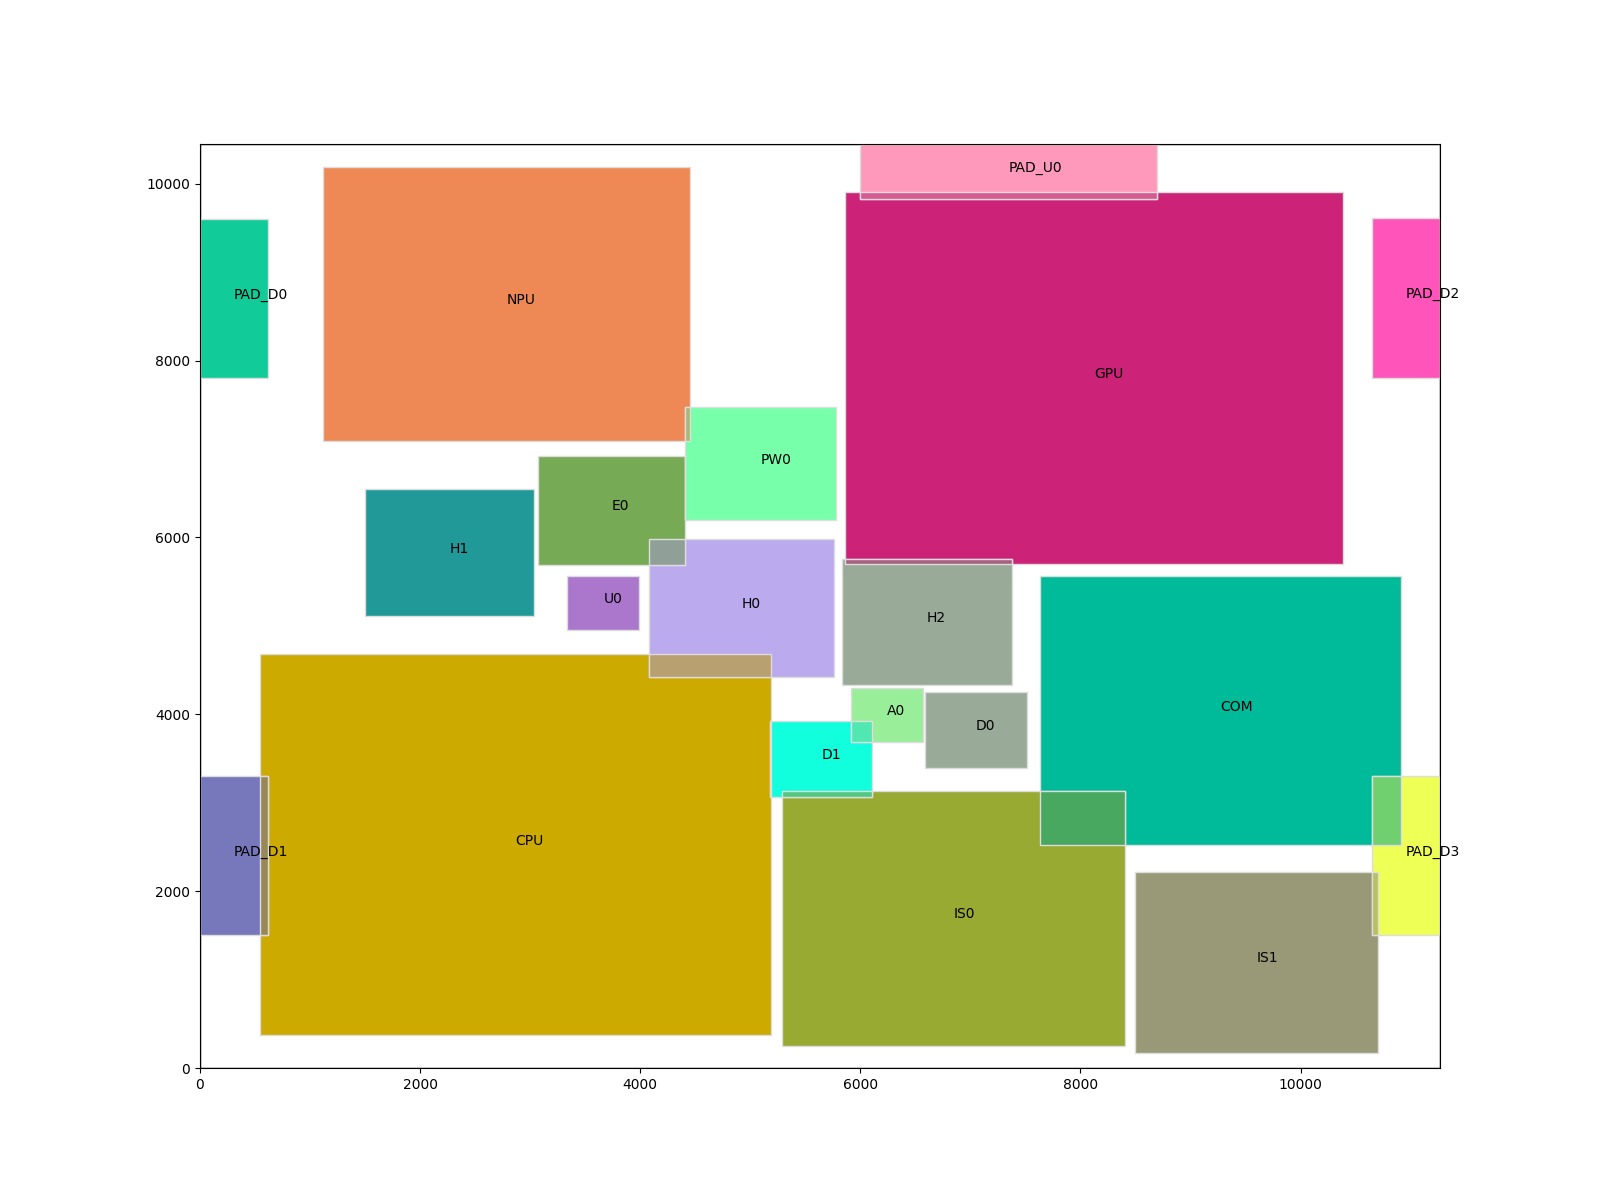
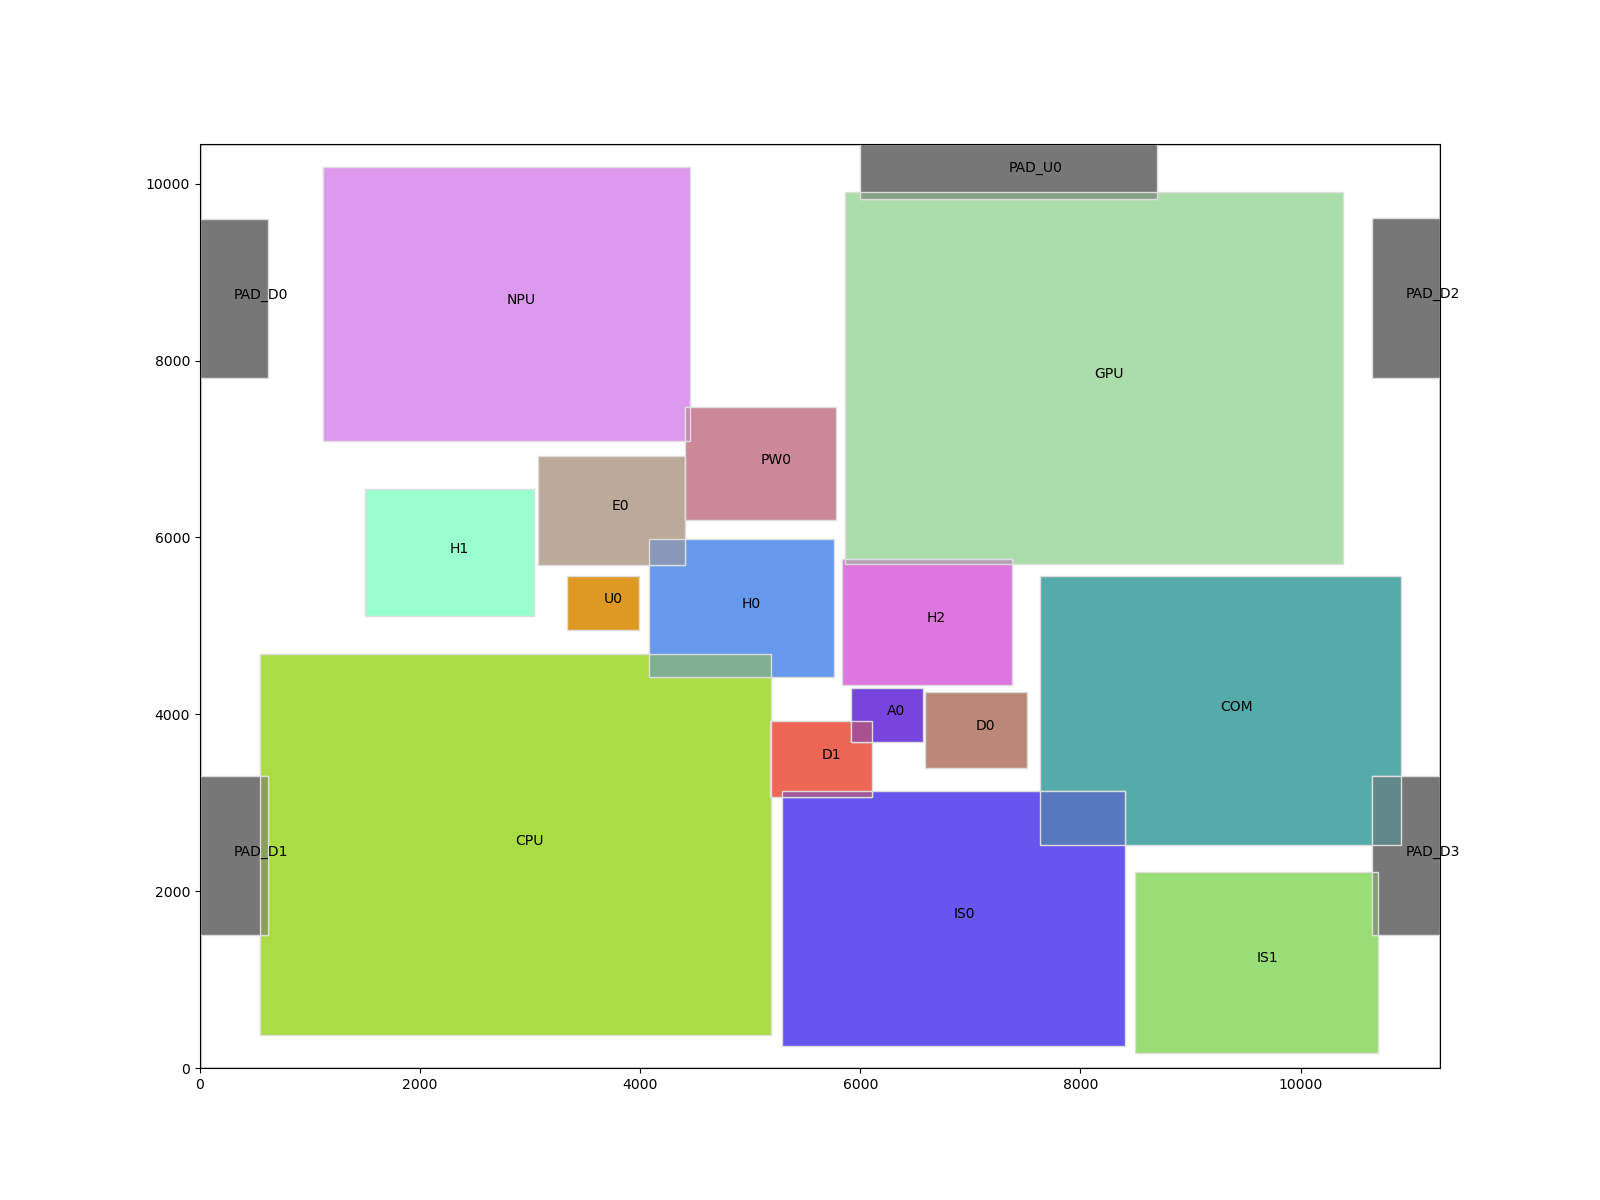
improve visualization

diff --git a/draw_tile_layout.py b/draw_tile_layout.py
@@ -25,7 +25,7 @@ used_color = ["#FFE", "#FFF", "#F00"]
 
 def set_rand_color():
     (R, G, B) = (random.randint(0, 15), random.randint(0, 15), random.randint(0, 15))
-    while R+G+B < 20:
+    while R+G+B < 24:
         (R, G, B) = (random.randint(0, 15), random.randint(0, 15), random.randint(0, 15))
     (Rc, Gc, Bc) = (hex(R)[2], hex(G)[2], hex(B)[2])
     color = "#" + Rc + Gc + Bc
@@ -105,7 +105,10 @@ for block in range(total_block_number):
     bx, by, bw, bh = float(ss[1]), float(ss[2]), float(ss[3]), float(ss[4])
     plt.text(bx+bw/2, by+bh/2, ss[0])
     name2pos[ss[0]] = (bx+bw/2, by+bh/2)
-    color = set_rand_color()
+    if ss[5] == "HARD_BLOCK":
+        color = "#777"
+    else:
+        color = set_rand_color()
     name2color[ss[0]] = color
     i += 1
     ss = f[i].split(" ")
